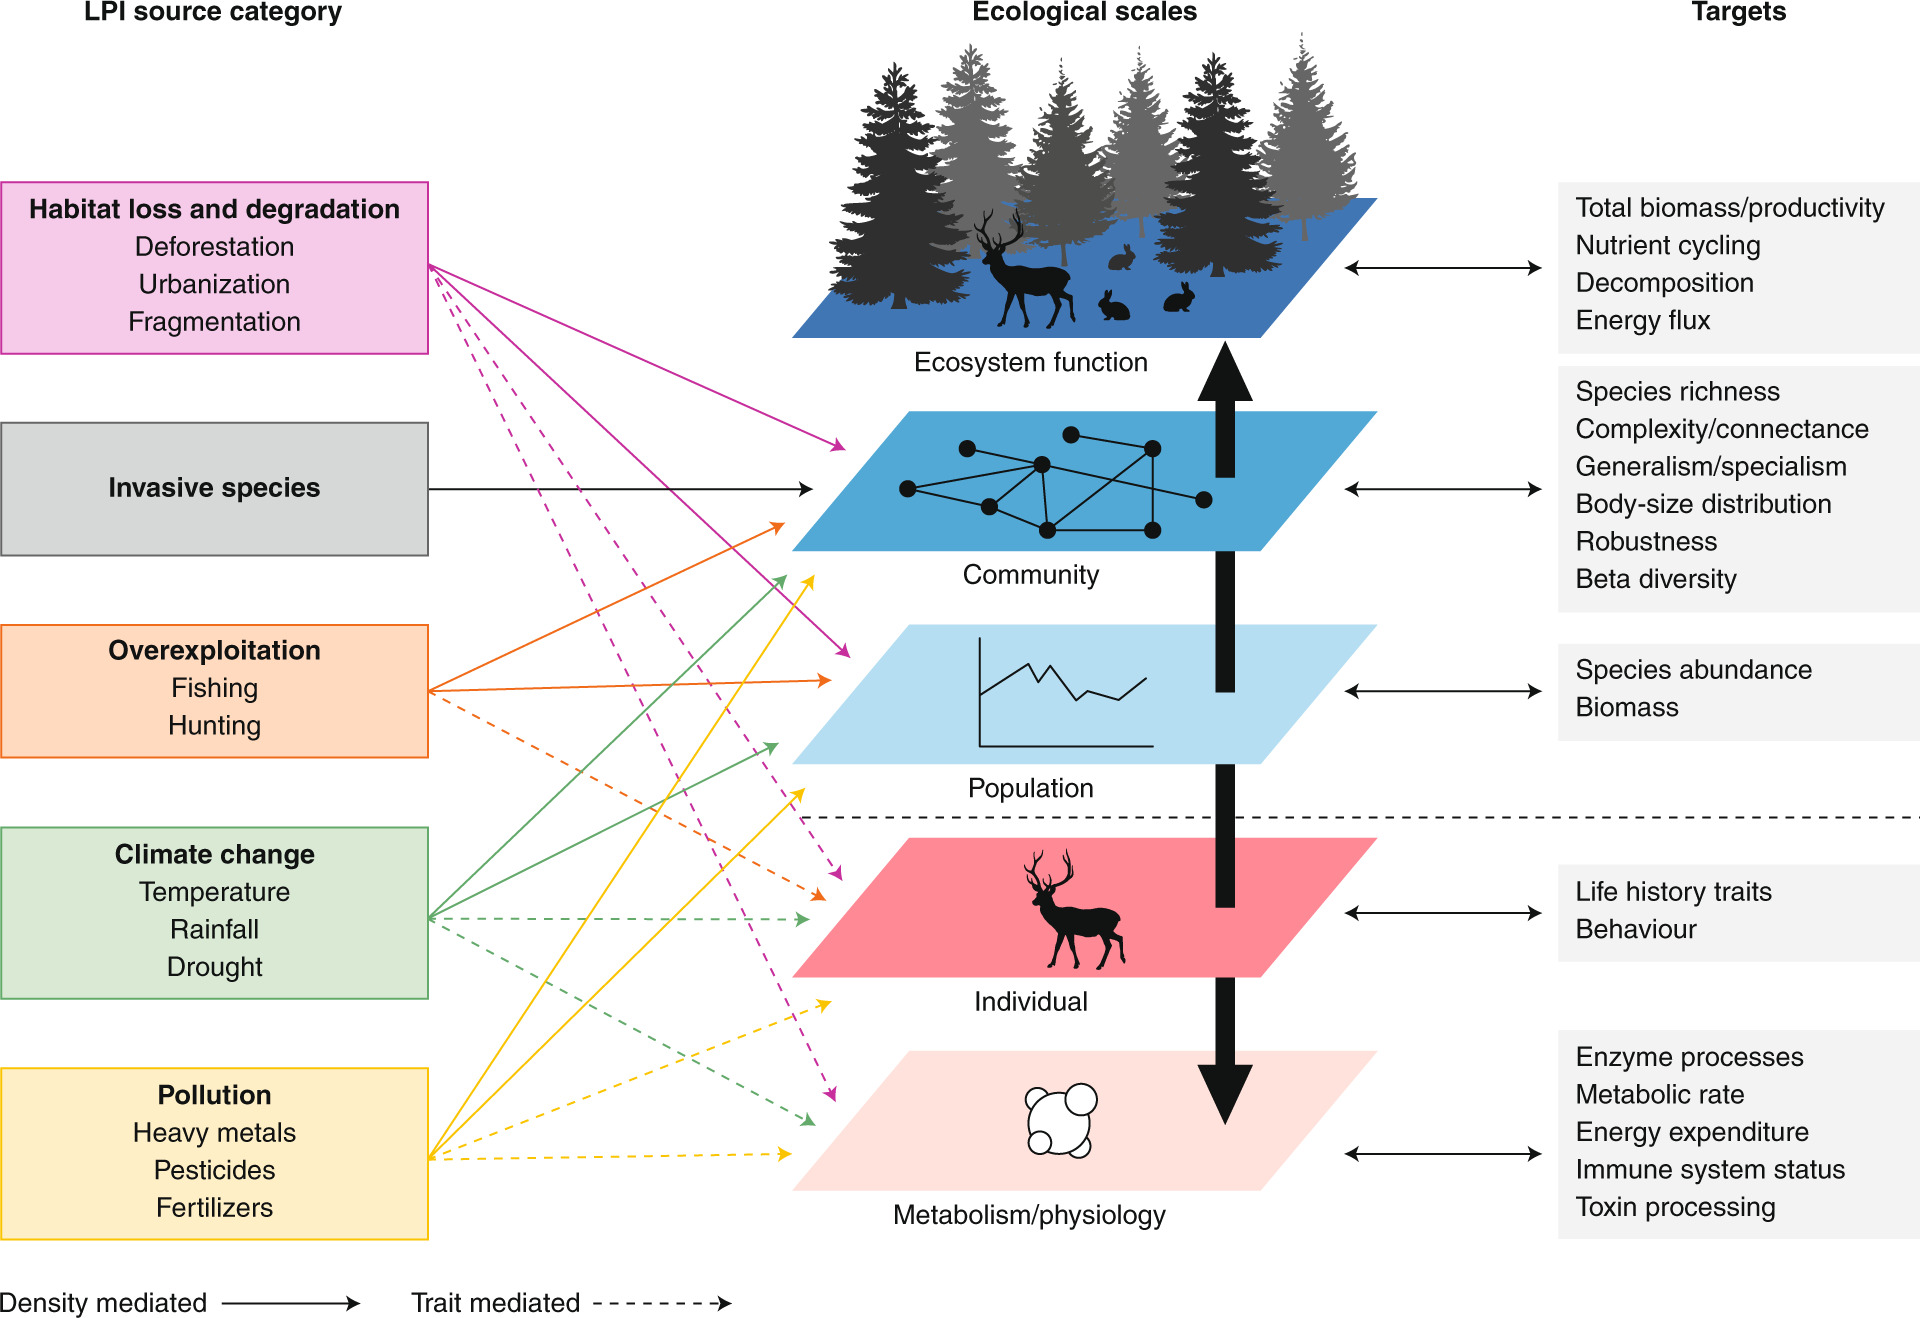
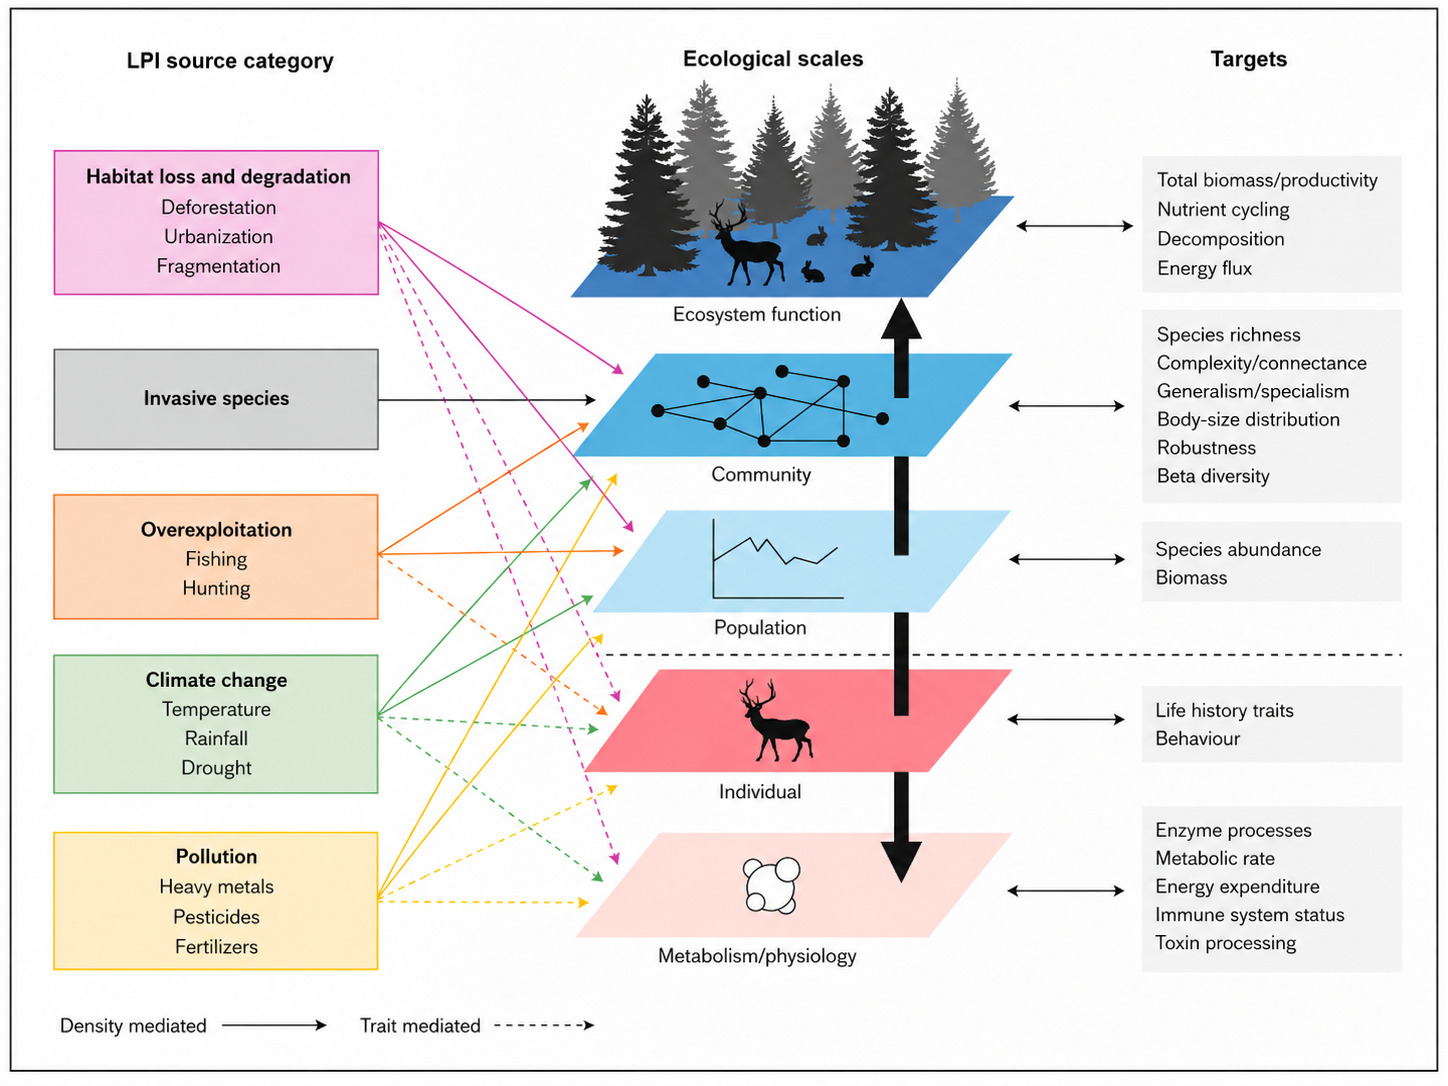
Update

diff --git a/index.html b/index.html
@@ -374,6 +374,27 @@
       height: 16px;
       fill: currentColor;
     }
+    .contact-text-link {
+      display: inline-flex;
+      align-items: center;
+      gap: 6px;
+      font-size: 0.72rem;
+      letter-spacing: 0.12em;
+      text-transform: uppercase;
+      color: var(--dark);
+      text-decoration: none;
+      padding: 0.5rem 1.2rem;
+      border: 0.5px solid rgba(26,28,24,0.25);
+      border-radius: 2px;
+      transition: background 0.2s, color 0.2s;
+    }
+    .contact-text-link:hover {
+      background: var(--dark);
+      color: var(--cream);
+    }
+    .contact-text-link:hover svg {
+      fill: var(--cream);
+    }
 
     /* ── FOOTER ── */
     footer {
@@ -494,20 +515,24 @@
   <section class="contact-strip">
     <h2>Get in touch</h2>
     <div class="contact-links">
-      <a href="mailto:[email redacted]">Email</a>
+      <!-- Email -->
+      <a href="mailto:[email redacted]" class="contact-text-link">
+        <svg viewBox="0 0 24 24" xmlns="http://www.w3.org/2000/svg" style="width:15px;height:15px;fill:currentColor;flex-shrink:0;"><path d="M20 4H4c-1.1 0-2 .9-2 2v12c0 1.1.9 2 2 2h16c1.1 0 2-.9 2-2V6c0-1.1-.9-2-2-2zm0 4-8 5-8-5V6l8 5 8-5v2z"/></svg>
+        Email
+      </a>
       <!-- ORCID -->
       <a class="social-icon-link" href="https://orcid.org/0000-0002-2632-2070" target="_blank" rel="noopener" title="ORCID">
         <svg viewBox="0 0 24 24" xmlns="http://www.w3.org/2000/svg"><path d="M12 0C5.372 0 0 5.372 0 12s5.372 12 12 12 12-5.372 12-12S18.628 0 12 0zM7.369 4.378c.525 0 .947.431.947.947s-.422.947-.947.947a.95.95 0 0 1-.947-.947c0-.525.422-.947.947-.947zm-.722 3.038h1.444v10.041H6.647V7.416zm3.562 0h3.9c3.712 0 5.344 2.653 5.344 5.025 0 2.578-2.016 5.016-5.325 5.016h-3.919V7.416zm1.444 1.303v7.444h2.297c3.272 0 3.872-2.412 3.872-3.722 0-2.016-1.284-3.722-3.872-3.722h-2.297z"/></svg>
       </a>
-      <!-- ResearchGate -->
+      <!-- ResearchGate — correct RG logo -->
       <a class="social-icon-link" href="https://www.researchgate.net/profile/Hung-Wei-Lin-4" target="_blank" rel="noopener" title="ResearchGate">
-        <svg viewBox="0 0 24 24" xmlns="http://www.w3.org/2000/svg"><path d="M19.586 0c-.818 0-1.508.19-2.073.565-.563.377-.97.936-1.213 1.68a12.67 12.67 0 0 0-.208 1.379 78.166 78.166 0 0 0-.052 1.563c0 .482.024.917.073 1.304.049.387.135.74.258 1.059.122.318.294.595.516.831.22.236.505.418.852.546-.715.193-1.265.568-1.65 1.124-.386.556-.58 1.24-.58 2.051 0 .56.107 1.065.32 1.515.212.45.51.843.893 1.178.382.336.835.599 1.358.79.522.19 1.095.285 1.718.285.622 0 1.196-.095 1.72-.285.522-.191.975-.454 1.358-.79.383-.335.681-.729.894-1.178.213-.45.32-.955.32-1.515 0-.811-.194-1.495-.58-2.051-.386-.556-.936-.931-1.65-1.124.347-.128.632-.31.852-.546.221-.236.393-.513.516-.831.123-.319.21-.672.258-1.059.05-.387.073-.822.073-1.304 0-.482-.017-.987-.052-1.516a12.67 12.67 0 0 0-.208-1.426c-.244-.744-.65-1.303-1.213-1.68C21.094.19 20.404 0 19.586 0zm0 1.583c.574 0 1.026.176 1.356.527.33.352.495.824.495 1.416 0 .59-.165 1.063-.495 1.416-.33.353-.782.529-1.356.529-.574 0-1.027-.176-1.357-.529-.33-.353-.495-.826-.495-1.416 0-.592.165-1.064.495-1.416.33-.351.783-.527 1.357-.527zm0 7.167c.74 0 1.32.215 1.74.644.42.43.63.995.63 1.695 0 .7-.21 1.264-.63 1.693-.42.43-1 .644-1.74.644-.74 0-1.32-.214-1.74-.644-.42-.429-.63-.993-.63-1.693 0-.7.21-1.265.63-1.695.42-.429 1-.644 1.74-.644zM4.5 3h5.5v1.5H6v4h3.5V10H6v5H4.5V3z"/></svg>
+        <svg viewBox="0 0 24 24" xmlns="http://www.w3.org/2000/svg"><path d="M12 0C5.373 0 0 5.373 0 12s5.373 12 12 12 12-5.373 12-12S18.627 0 12 0zm-.47 5.4h1.44v3.12c.34-.5.88-.78 1.56-.78 1.4 0 2.26 1.04 2.26 2.7 0 1.7-.88 2.76-2.3 2.76-.7 0-1.26-.3-1.6-.84l-.08.72h-1.28V5.4zm1.44 5.1c0 .86.42 1.38 1.1 1.38.66 0 1.06-.52 1.06-1.38 0-.84-.4-1.36-1.06-1.36-.68 0-1.1.52-1.1 1.36zM8.3 5.4h1.86c1.56 0 2.48.82 2.48 2.2 0 .94-.46 1.66-1.24 2.02l1.62 2.82h-1.7l-1.38-2.52H9.74v2.52H8.3V5.4zm1.44 3.18h.34c.74 0 1.12-.34 1.12-.96 0-.6-.38-.92-1.1-.92h-.36v1.88zm.7 5.7c-3.54 0-6.24-1.86-6.24-5.34 0-.18.01-.36.03-.54C3.1 9.54 2 10.98 2 12.66 2 15.78 4.8 18 8.5 18c2.36 0 4.34-.96 5.56-2.56-.5.18-1.04.28-1.62.28z"/></svg>
       </a>
       <!-- GitHub -->
       <a class="social-icon-link" href="https://github.com/homewaylin666" target="_blank" rel="noopener" title="GitHub">
         <svg viewBox="0 0 24 24" xmlns="http://www.w3.org/2000/svg"><path d="M12 0C5.37 0 0 5.37 0 12c0 5.31 3.435 9.795 8.205 11.385.6.105.825-.255.825-.57 0-.285-.015-1.23-.015-2.235-3.015.555-3.795-.735-4.035-1.41-.135-.345-.72-1.41-1.23-1.695-.42-.225-1.02-.78-.015-.795.945-.015 1.62.87 1.845 1.23 1.08 1.815 2.805 1.305 3.495.99.105-.78.42-1.305.765-1.605-2.67-.3-5.46-1.335-5.46-5.925 0-1.305.465-2.385 1.23-3.225-.12-.3-.54-1.53.12-3.18 0 0 1.005-.315 3.3 1.23.96-.27 1.98-.405 3-.405s2.04.135 3 .405c2.295-1.56 3.3-1.23 3.3-1.23.66 1.65.24 2.88.12 3.18.765.84 1.23 1.905 1.23 3.225 0 4.605-2.805 5.625-5.475 5.925.435.375.81 1.095.81 2.22 0 1.605-.015 2.895-.015 3.3 0 .315.225.69.825.57A12.02 12.02 0 0 0 24 12c0-6.63-5.37-12-12-12z"/></svg>
       </a>
-      <a href="contact.html">More →</a>
+      <a href="contact.html" class="contact-text-link">More →</a>
     </div>
   </section>
 

diff --git a/research.html b/research.html
@@ -333,7 +333,7 @@
   <section class="topic-detail" id="topic-crossscale">
     <button class="back-btn" onclick="closeTopic()">← Back to Research</button>
     <h2>Cross-Scale Resilience</h2>
-    <div class="topic-detail-img-placeholder">replace with research_crossscale.jpg</div>
+    <img class="topic-detail-img" src="images/research_crossscale.jpg" alt="Cross-Scale Resilience">
     <p>My doctoral research centres on a deceptively simple question: what makes ecological systems resilient, and does the answer change depending on the scale at which we look? I am interested in how resilience — the capacity of a system to absorb disturbance and reorganise — manifests differently at the level of individual organisms, populations, and communities.</p>
     <p>Rather than treating these scales in isolation, I am working towards a framework that explicitly bridges them. The goal is to understand how individual-level trait responses aggregate into population dynamics, and how those dynamics feed back into community structure and stability. This cross-scale perspective is central to my DPhil at the University of Oxford.</p>
     <p>Current work combines meta-analysis, comparative methods, and large-scale open datasets. I aim to extend these to empirical field data and long-term monitoring datasets in the coming years.</p>
@@ -342,7 +342,7 @@
   <section class="topic-detail" id="topic-demography">
     <button class="back-btn" onclick="closeTopic()">← Back to Research</button>
     <h2>Population Demography</h2>
-    <div class="topic-detail-img-placeholder">replace with research_demography.jpg</div>
+    <img class="topic-detail-img" src="images/research_demography.jpg" alt="Population Demography">
     <p>Demography is the language in which populations tell their stories. Survival, growth, reproduction — these vital rates, structured by age or stage, determine whether a population grows, shrinks, or persists in the face of environmental change.</p>
     <p>I work with matrix population models (MPMs) and integral projection models (IPMs) to characterise population dynamics across species and contexts. A particular focus is on transient dynamics — the short-term behaviours that unfold before a population reaches its asymptotic state — and how life-history traits predict the magnitude of these transients.</p>
     <p>I am also a contributor to the COMPADRE and COMADRE Plant and Animal Matrix Databases, which compile MPMs from the published literature to enable comparative demographic analyses at a global scale.</p>
@@ -351,7 +351,7 @@
   <section class="topic-detail" id="topic-evolution">
     <button class="back-btn" onclick="closeTopic()">← Back to Research</button>
     <h2>Evolutionary History</h2>
-    <div class="topic-detail-img-placeholder">replace with research_evolution.jpg</div>
+    <img class="topic-detail-img" src="images/research_evolution.jpg" alt="Evolutionary History">
     <p>Conservation biology has long grappled with the question of how to prioritise species for protection. Evolutionary distinctiveness — the amount of unique evolutionary history a species represents — has emerged as a compelling criterion, yet most priority frameworks treat it in isolation from how populations are actually faring in the wild.</p>
     <p>In this line of work, I explored whether species' population trends are predictable from their position in the tree of life, and what happens when we integrate phylogenetic information with empirical abundance trends. The findings suggest that evolutionary history and recent population change provide largely complementary information — meaning frameworks that account for both can identify conservation priorities that neither metric alone would reveal.</p>
     <p>This work has broader implications for how we design biodiversity monitoring programmes and interpret the signals they produce across the phylogenetic tree.</p>
@@ -360,7 +360,7 @@
   <section class="topic-detail" id="topic-others">
     <button class="back-btn" onclick="closeTopic()">← Back to Research</button>
     <h2>Other Interests</h2>
-    <div class="topic-detail-img-placeholder">replace with research_others.jpg</div>
+    <img class="topic-detail-img" src="images/research_others.jpg" alt="Other Interests">
     <p>My research path has been deliberately broad. Before settling into macroecology and demography, I worked on projects spanning animal cognition, behavioural ecology, plant population genetics, and the effects of artificial light at night on decomposer communities.</p>
     <p>These experiences were formative — they taught me to move comfortably across taxa, methodological traditions, and scales of enquiry. Some of these threads remain live interests: I am particularly drawn to the macroevolution of species traits, especially how functional traits evolve across phylogenies and what that tells us about the ecological roles species occupy today.</p>
     <p>This section serves as a record of paths taken and a placeholder for directions not yet pursued.</p>